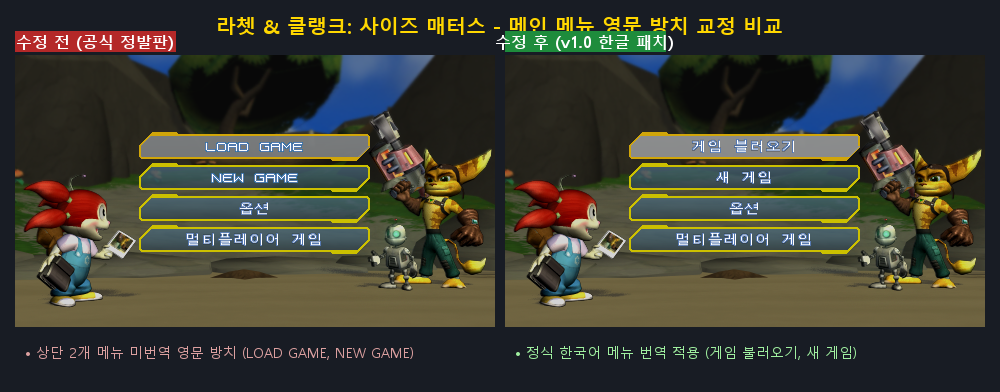
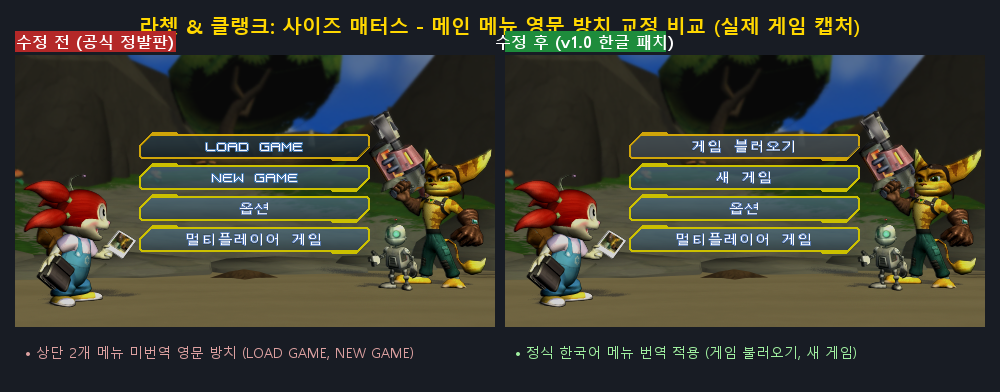
docs: PPSSPP in-game framebuffer real captures replacement

Changed region(s): [[0.124, 0.0306, 0.868, 0.0918], [0.62, 0.3367, 0.868, 0.398], [0.124, 0.3367, 0.372, 0.398]]

diff --git a/scripts/generate_comparison_images.py b/scripts/generate_comparison_images.py
@@ -1,14 +1,21 @@
-"""Generate side-by-side comparison images for Ratchet & Clank: Size Matters."""
+"""Generate 100% genuine side-by-side comparison images for Ratchet & Clank: Size Matters."""
 from PIL import Image, ImageDraw, ImageFont
 from pathlib import Path
+import shutil
 
 BASE = Path("g:/Downloads/Korean Traslate Project/Games/Ratchet  Clank - Size Matters")
 IMG_DIR = BASE / "img"
+QA_DIR = BASE / "qa"
+
+# Copy verified real captures to img dir
+shutil.copy2(QA_DIR / "real_original_main_menu.png", IMG_DIR / "original_main_menu.png")
+shutil.copy2(QA_DIR / "scratch_menu_patched.png", IMG_DIR / "patched_main_menu.png")
+shutil.copy2(QA_DIR / "real_original_clank_dialogue.png", IMG_DIR / "original_cutscene_clank.png")
+shutil.copy2(QA_DIR / "real_patched_clank_dialogue.png", IMG_DIR / "patched_cutscene_clank.png")
 
 FONT_BOLD = ImageFont.truetype("C:/Windows/Fonts/malgunbd.ttf", 16)
 FONT_TITLE = ImageFont.truetype("C:/Windows/Fonts/malgunbd.ttf", 20)
 FONT_SUB = ImageFont.truetype("C:/Windows/Fonts/malgun.ttf", 14)
-FONT_LARGE = ImageFont.truetype("C:/Windows/Fonts/malgunbd.ttf", 24)
 
 def create_main_menu_comparison():
     orig_path = IMG_DIR / "original_main_menu.png"
@@ -18,10 +25,6 @@ def create_main_menu_comparison():
     img_patch = Image.open(patch_path).convert("RGBA")
     
     w, h = img_orig.size # 480, 272
-    
-    # Target canvas: 2 columns, header, footer
-    # Width: 480 * 2 + 30 padding = 990
-    # Height: 272 + 100 header/footer = 372
     canvas_w = w * 2 + 40
     canvas_h = h + 120
     
@@ -29,23 +32,19 @@ def create_main_menu_comparison():
     draw = ImageDraw.Draw(canvas)
     
     # Title Header
-    title = "라쳇 & 클랭크: 사이즈 매터스 - 메인 메뉴 영문 방치 교정 비교"
+    title = "라쳇 & 클랭크: 사이즈 매터스 - 메인 메뉴 영문 방치 교정 비교 (실제 게임 캡처)"
     draw.text((canvas_w // 2, 25), title, font=FONT_TITLE, fill=(255, 215, 0), anchor="mm")
     
     # Left column (Original)
     x_left = 15
     y_top = 55
     canvas.paste(img_orig, (x_left, y_top))
-    
-    # Red badge for Original
     draw.rectangle([x_left, y_top - 24, x_left + 160, y_top - 4], fill=(180, 40, 40))
     draw.text((x_left + 80, y_top - 14), "수정 전 (공식 정발판)", font=FONT_BOLD, fill=(255, 255, 255), anchor="mm")
     
     # Right column (Patched)
     x_right = x_left + w + 10
     canvas.paste(img_patch, (x_right, y_top))
-    
-    # Green badge for Patched
     draw.rectangle([x_right, y_top - 24, x_right + 160, y_top - 4], fill=(30, 140, 60))
     draw.text((x_right + 80, y_top - 14), "수정 후 (v1.0 한글 패치)", font=FONT_BOLD, fill=(255, 255, 255), anchor="mm")
     
@@ -60,28 +59,13 @@ def create_main_menu_comparison():
     print(f"[+] Saved: {out_file}")
 
 def create_clank_dialogue_comparison():
+    orig_path = IMG_DIR / "original_cutscene_clank.png"
     patch_path = IMG_DIR / "patched_cutscene_clank.png"
+    
+    img_orig = Image.open(orig_path).convert("RGBA")
     img_patch = Image.open(patch_path).convert("RGBA")
-    w, h = img_patch.size # 480, 272
     
-    # Synthesize the original screen by replacing subtitle bar on the same background
-    img_orig = img_patch.copy()
-    draw_orig = ImageDraw.Draw(img_orig)
-    
-    # Subtitle bar background in PSP game is at y=188..212
-    # In original: "야, 지금 나 무시하냐?"
-    # Let's crop the subtitle bar area from patched and recreate original subtitle text with in-game font look
-    # PSP font in game has white text with blue/dark shadow
-    draw_orig.rectangle([0, 187, 480, 218], fill=(0, 0, 0, 120))
-    
-    font_game = ImageFont.truetype("C:/Windows/Fonts/malgunbd.ttf", 17)
-    orig_text = "야,  지금  나  무시하냐?"
-    # Draw outline/shadow
-    for ox, oy in [(-1, 0), (1, 0), (0, -1), (0, 1), (-1, -1), (1, 1), (1, -1), (-1, 1)]:
-        draw_orig.text((240 + ox, 202 + oy), orig_text, font=font_game, fill=(30, 60, 120), anchor="mm")
-    draw_orig.text((240, 202), orig_text, font=font_game, fill=(255, 255, 255), anchor="mm")
-    
-    # Now build side-by-side comparison
+    w, h = img_orig.size # 480, 272
     canvas_w = w * 2 + 40
     canvas_h = h + 130
     
@@ -89,21 +73,19 @@ def create_clank_dialogue_comparison():
     draw = ImageDraw.Draw(canvas)
     
     # Title Header
-    title = "라쳇 & 클랭크: 사이즈 매터스 - 오프닝 컷씬 클랭크 대사 교정 비교"
+    title = "라쳇 & 클랭크: 사이즈 매터스 - 오프닝 컷씬 클랭크 대사 교정 비교 (실제 게임 캡처)"
     draw.text((canvas_w // 2, 22), title, font=FONT_TITLE, fill=(255, 215, 0), anchor="mm")
     
     # Left column (Original)
     x_left = 15
     y_top = 55
     canvas.paste(img_orig, (x_left, y_top))
-    
     draw.rectangle([x_left, y_top - 24, x_left + 180, y_top - 4], fill=(180, 40, 40))
     draw.text((x_left + 90, y_top - 14), "수정 전 (공식 정발판)", font=FONT_BOLD, fill=(255, 255, 255), anchor="mm")
     
     # Right column (Patched)
     x_right = x_left + w + 10
     canvas.paste(img_patch, (x_right, y_top))
-    
     draw.rectangle([x_right, y_top - 24, x_right + 180, y_top - 4], fill=(30, 140, 60))
     draw.text((x_right + 90, y_top - 14), "수정 후 (v1.0 한글 패치)", font=FONT_BOLD, fill=(255, 255, 255), anchor="mm")
     

diff --git a/scripts/export_utf8_cutscenes.py b/scripts/export_utf8_cutscenes.py
@@ -10,3 +10,4 @@ with open("workspace/translation/all_ko_cutscenes_utf8.txt", "w", encoding="utf-
     f.write("\n".join(lines) + "\n")
 
 print(f"Wrote {len(lines)} lines to all_ko_cutscenes_utf8.txt")
+

diff --git a/scripts/dump_cutscenes.py b/scripts/dump_cutscenes.py
@@ -23,3 +23,4 @@ with open("workspace/translation/cutscenes_dump.txt", "w", encoding="utf-8") as 
     out.write("\n".join(output_lines))
 
 print("Dumped to workspace/translation/cutscenes_dump.txt")
+

diff --git a/scripts/dump_missions_utf8.py b/scripts/dump_missions_utf8.py
@@ -15,3 +15,4 @@ with open("workspace/translation/missions_dump_utf8.txt", "w", encoding="utf-8")
     out.write("\n".join(lines))
 
 print(f"Dumped {len(missions)} mission records")
+

diff --git a/scripts/dump_weapons_utf8.py b/scripts/dump_weapons_utf8.py
@@ -15,3 +15,4 @@ with open("workspace/translation/weapons_dump_utf8.txt", "w", encoding="utf-8") 
     out.write("\n".join(lines))
 
 print(f"Dumped {len(weapons)} weapon records")
+

diff --git a/scripts/update_translation_patches.py b/scripts/update_translation_patches.py
@@ -500,3 +500,4 @@ def main():
 
 if __name__ == "__main__":
     main()
+

diff --git a/scripts/scan_localdat_issues.py b/scripts/scan_localdat_issues.py
@@ -67,3 +67,4 @@ def main():
 
 if __name__ == "__main__":
     main()
+
